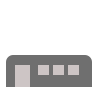
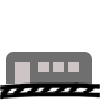
minor styling changes

diff --git a/style.css b/style.css
@@ -8,11 +8,15 @@ main {
     margin: 2%;
 }
 
-.header-and-lightbox {
+.header-and-lightbox, .options-and-distance-board {
     display: flex;
     flex-wrap: wrap;
     height: 750px;
     width: 50%;
+}
+
+.options-and-distance-board {
+    justify-content: center;
 }
 
 header {
@@ -47,13 +51,14 @@ header {
 .light-box {
     height: 590px;
     margin: 6px 0 0 10px;
+    width: 100%;
 }
 
 .green-line, .red-line, .yellow-line, .blue-line {
     display: flex;
     height: 140px;
     margin: 1%;
-    width: 560px;
+    width: 100%;
 }
 
 .light {
@@ -86,13 +91,7 @@ header {
     margin-left: 5%;
 }
 
-.options-and-distance-board {
-    display: flex;
-    flex-wrap: wrap;
-    height: 750px;
-    width: 50%;
-    justify-content: center;
-}
+
 
 .alerts {
     align-items: center;
@@ -172,20 +171,23 @@ header {
 }
 
 .position {
-    border-bottom: solid #c4c4c4 3px;
+    /*border-bottom: solid #c4c4c4 3px;*/
+    background-image: url("tracks.png");
+    background-size: contain;
     height: 50px;
     width: 75px;
 }
 
 .active {
-    background-image: url(" metrocar.png");
+    background-image: url("metrocar.png");
     background-position: bottom;
     background-repeat: no-repeat;
     background-size: cover;
 }
 
 .home-icon {
+    background-color: white;
     height: 50px;
-    width: 50px;
+    width: 75px;
 }
 

diff --git a/index.html b/index.html
@@ -9,7 +9,7 @@
 </head>
 
 <body>
-	<main class>
+	<main>
 		<div class="header-and-lightbox">
 			<header>
 				<div class="logo">
